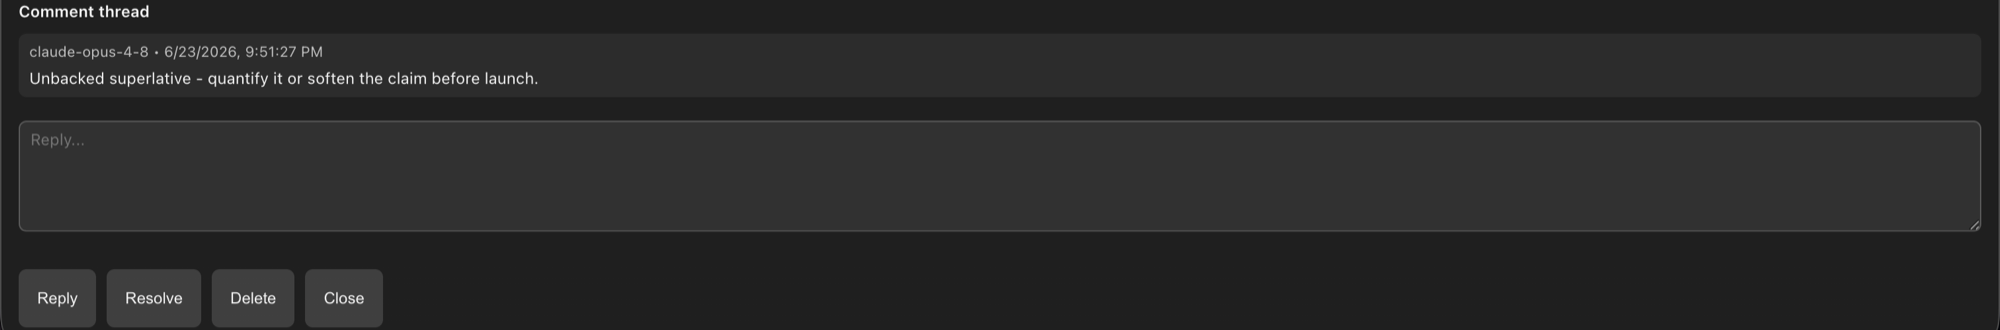
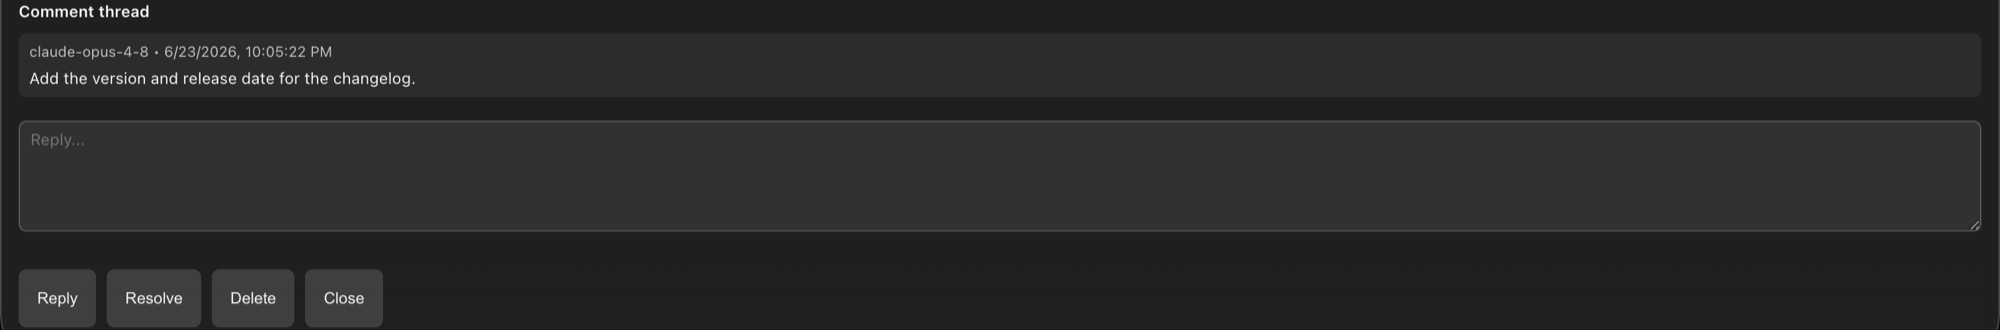
docs: use freshly captured editor screenshots in README
Cleaner editor shot (comment highlight in the document) and the matching comment
thread from ai:claude-opus-4-8; caption updated to match.

Changed region(s): [[0.0, 0.2121, 0.279, 0.2727], [0.124, 0.1212, 0.186, 0.1818]]

diff --git a/README.md b/README.md
@@ -17,9 +17,9 @@ humans and other agents are doing, each bound to its own token identity
 
 ![The mddocs editor with an AI reviewer's comment in the document](examples/editor.png)
 
-The editor with an AI reviewer's mark live in the document: a comment flagging an
-unbacked claim ("the fastest on the market"). Open the comment to see the thread,
-attributed to `ai:claude-opus-4-8`:
+The editor with an AI reviewer's mark live in the document: a comment on the
+opening line asking for a version and release date. Open the comment to see the
+thread, attributed to `ai:claude-opus-4-8`:
 
 ![An AI agent's comment thread in mddocs, attributed to claude-opus-4-8](examples/editor-comment.png)
 